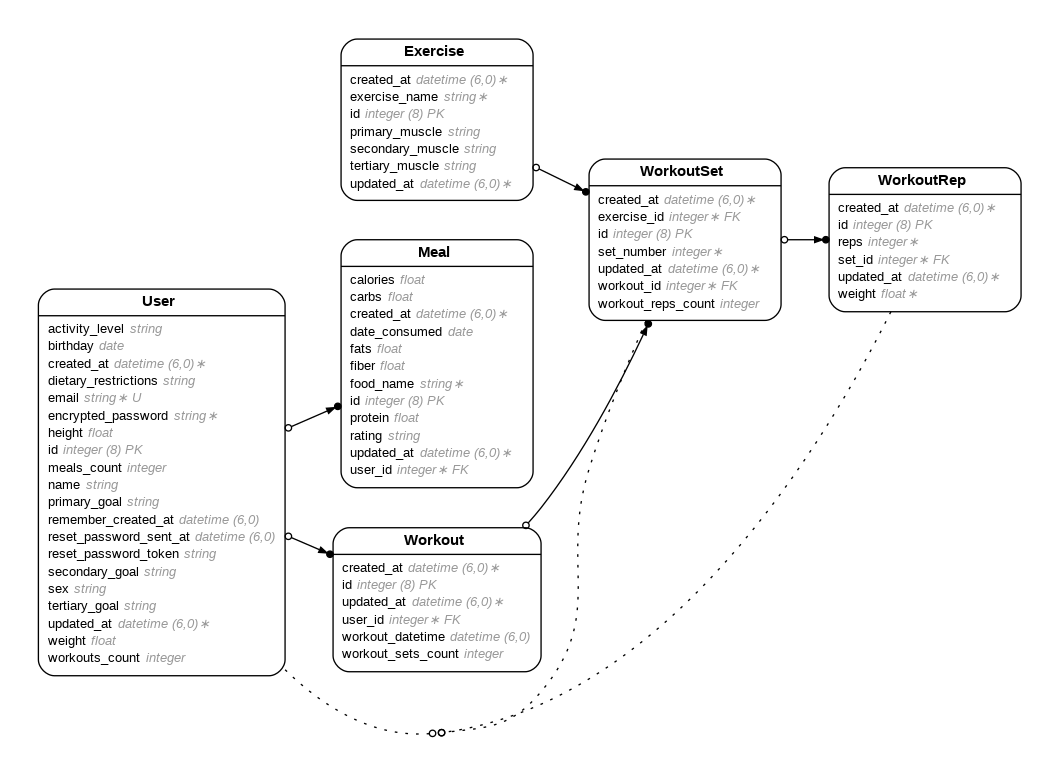
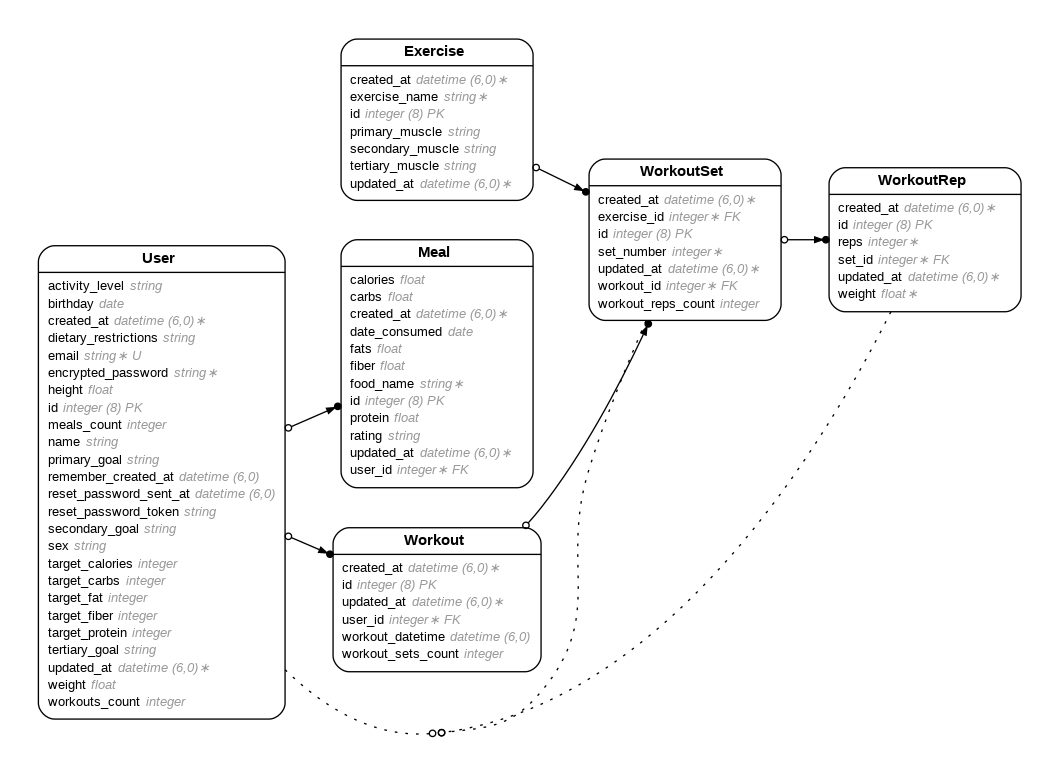
Skeleton of user's homepage

Changed region(s): [[0.0312, 0.3105, 0.2493, 0.9314], [0.2493, 0.3415, 0.2805, 0.4036], [0.2493, 0.8693, 0.2805, 0.9004]]

diff --git a/db/schema.rb b/db/schema.rb
@@ -10,7 +10,7 @@
 #
 # It's strongly recommended that you check this file into your version control system.
 
-ActiveRecord::Schema[7.1].define(version: 2025_05_16_045530) do
+ActiveRecord::Schema[7.1].define(version: 2025_05_19_042201) do
   # These are extensions that must be enabled in order to support this database
   enable_extension "plpgsql"
 
@@ -57,6 +57,11 @@ ActiveRecord::Schema[7.1].define(version: 2025_05_16_045530) do
     t.integer "workouts_count"
     t.datetime "created_at", null: false
     t.datetime "updated_at", null: false
+    t.integer "target_calories"
+    t.integer "target_protein"
+    t.integer "target_carbs"
+    t.integer "target_fat"
+    t.integer "target_fiber"
     t.index ["email"], name: "index_users_on_email", unique: true
     t.index ["reset_password_token"], name: "index_users_on_reset_password_token", unique: true
   end

diff --git a/app/models/user.rb b/app/models/user.rb
@@ -17,6 +17,11 @@
 #  reset_password_token   :string
 #  secondary_goal         :string
 #  sex                    :string
+#  target_calories        :integer
+#  target_carbs           :integer
+#  target_fat             :integer
+#  target_fiber           :integer
+#  target_protein         :integer
 #  tertiary_goal          :string
 #  weight                 :float
 #  workouts_count         :integer

diff --git a/db/migrate/20250519042201_add_nutrition_targets_to_users.rb b/db/migrate/20250519042201_add_nutrition_targets_to_users.rb
@@ -1,0 +1,9 @@
+class AddNutritionTargetsToUsers < ActiveRecord::Migration[7.1]
+  def change
+    add_column :users, :target_calories, :integer
+    add_column :users, :target_protein, :integer
+    add_column :users, :target_carbs, :integer
+    add_column :users, :target_fat, :integer
+    add_column :users, :target_fiber, :integer
+  end
+end
